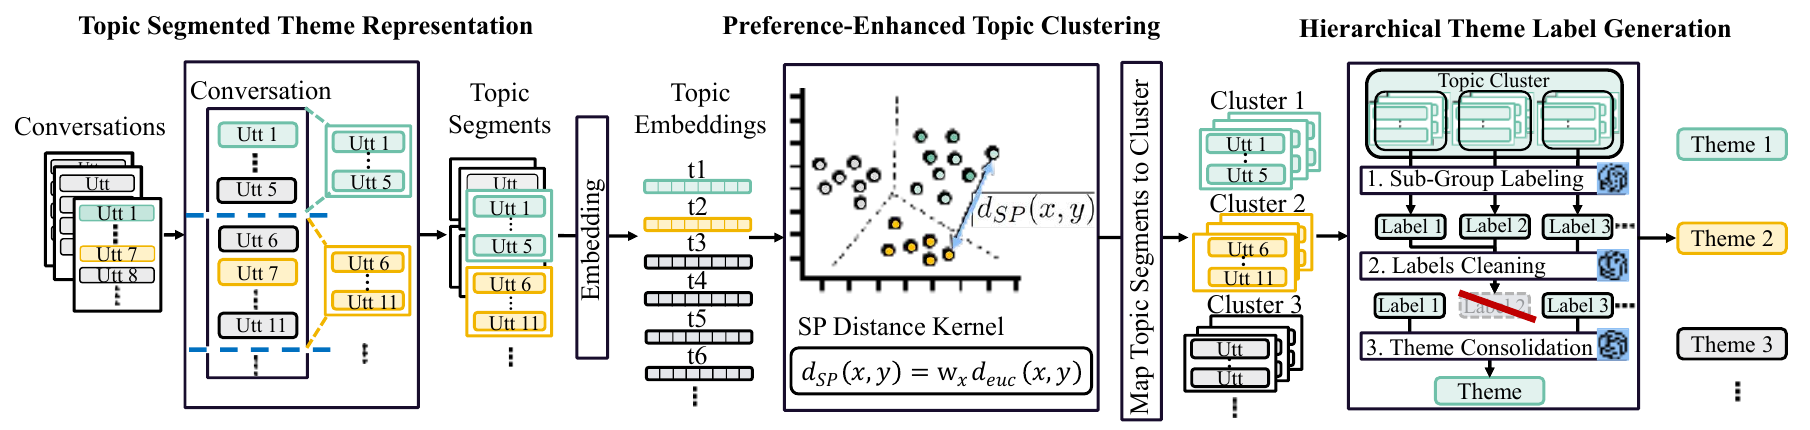
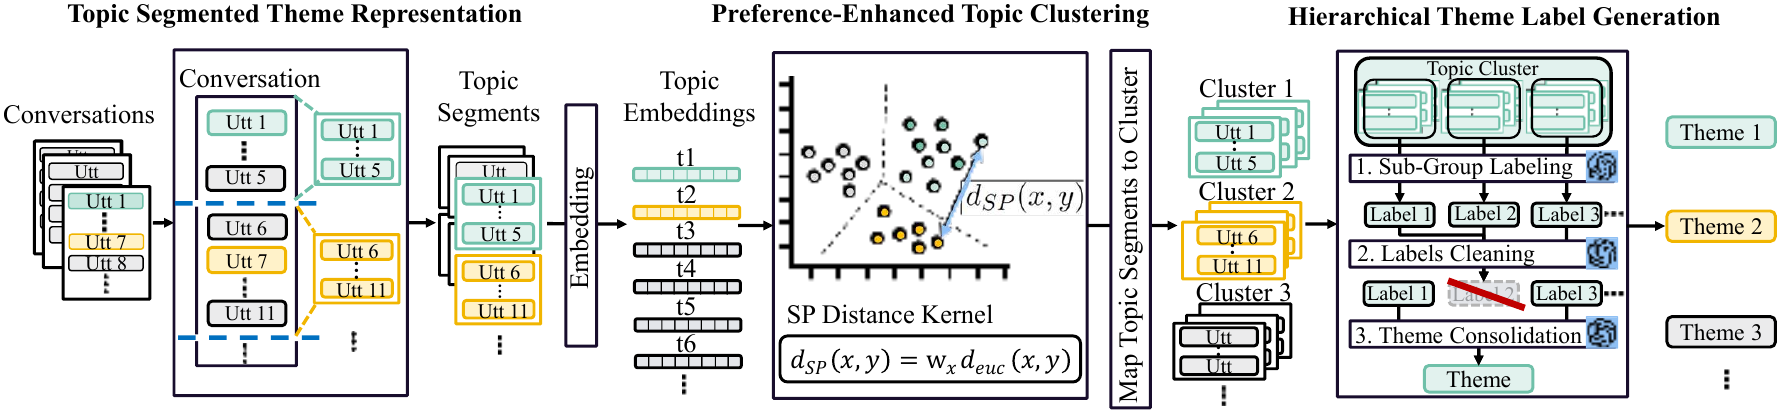
Trim publication previews and preserve natural image proportions

diff --git a/_sass/_home.scss b/_sass/_home.scss
@@ -427,17 +427,16 @@
   img {
     width: 100%;
     height: auto;
-    aspect-ratio: 4 / 3;
     object-fit: contain;
     background: white;
     border: 1px solid var(--global-divider-color);
-    padding: 0.35rem;
+    padding: 2px;
   }
 }
 
 .academic-home .publications ol.bibliography > li > .row.paper-with-preview {
   display: grid;
-  grid-template-columns: 175px minmax(0, 1fr);
+  grid-template-columns: 210px minmax(0, 1fr);
   gap: 1.2rem;
   .abbr {
     width: 100%;
@@ -449,8 +448,8 @@
     grid-template-columns: minmax(0, 1fr);
     gap: 0.5rem;
   }
-  .paper-preview-link img {
-    max-height: 200px;
+  .paper-preview-link {
+    max-width: 360px;
   }
 }
 .home-section-nav {

diff --git a/progress.md b/progress.md
@@ -20,6 +20,8 @@
 
 链接与标识定稿：链接独立采用浅色 #245A81 / 深色 #8AB8DF 蓝色，悬停和 PDF 按钮使用对应主题蓝色背景与反色文字；酒红只承担内容强调。favicon 改为海军蓝底、几何白色 KW 字母，替换前一版酒红圆笔画标识。
 
+图片留白：五张论文预览裁去外围近白边缘，保留 4px 安全边距与全部框架。取消 4:3 固定容器及手机端固定高度；桌面预览列 210px，图片等宽、按原始比例自然高度显示。
+
 论文图片与入口：五篇论文均有原始框架图；新增 CATCH（AAAI 正式版 Figure 2）和 DDTSR（arXiv v1 Figure 2）。CATCH 使用正式页面/PDF 和官方代码，删除 arXiv 按钮；其他预印本保持原入口。DDTSR 论文中所列代码地址当前返回 404，暂不展示。
 
 环境：Ruby 4.0、Jekyll 4.4.1；依赖安装在忽略目录 vendor/bundle。没有 Docker；Browser 无可用连接，使用独立无头 Chrome 检查。
